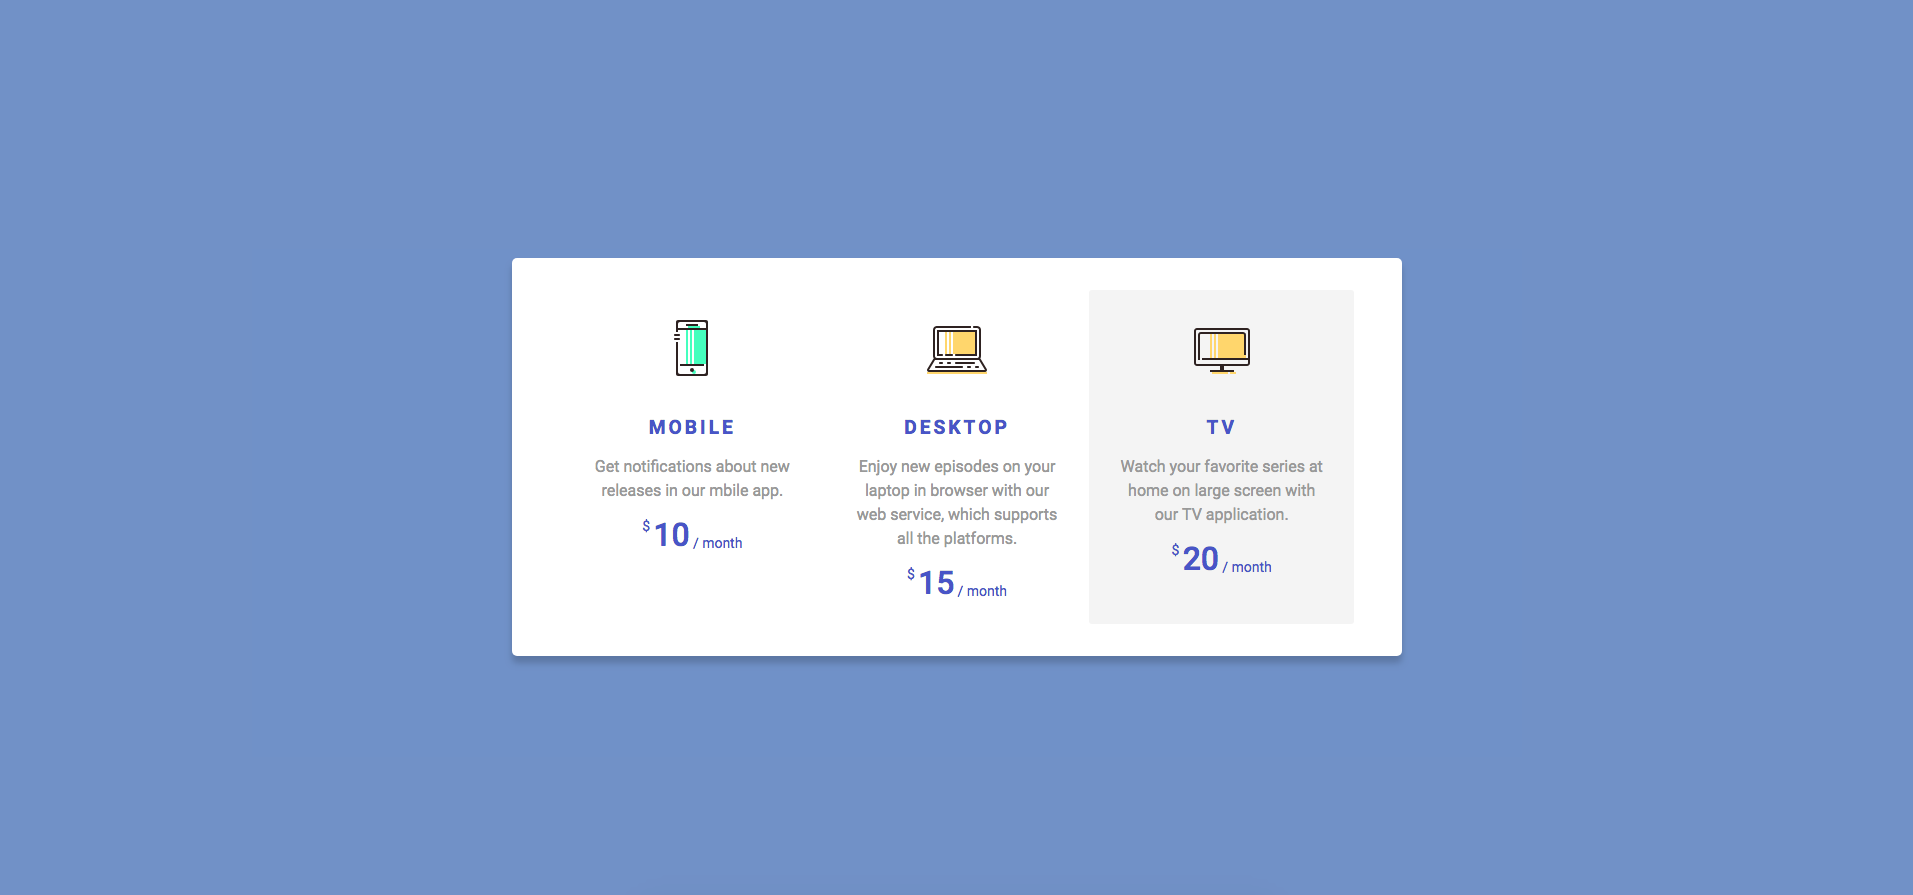
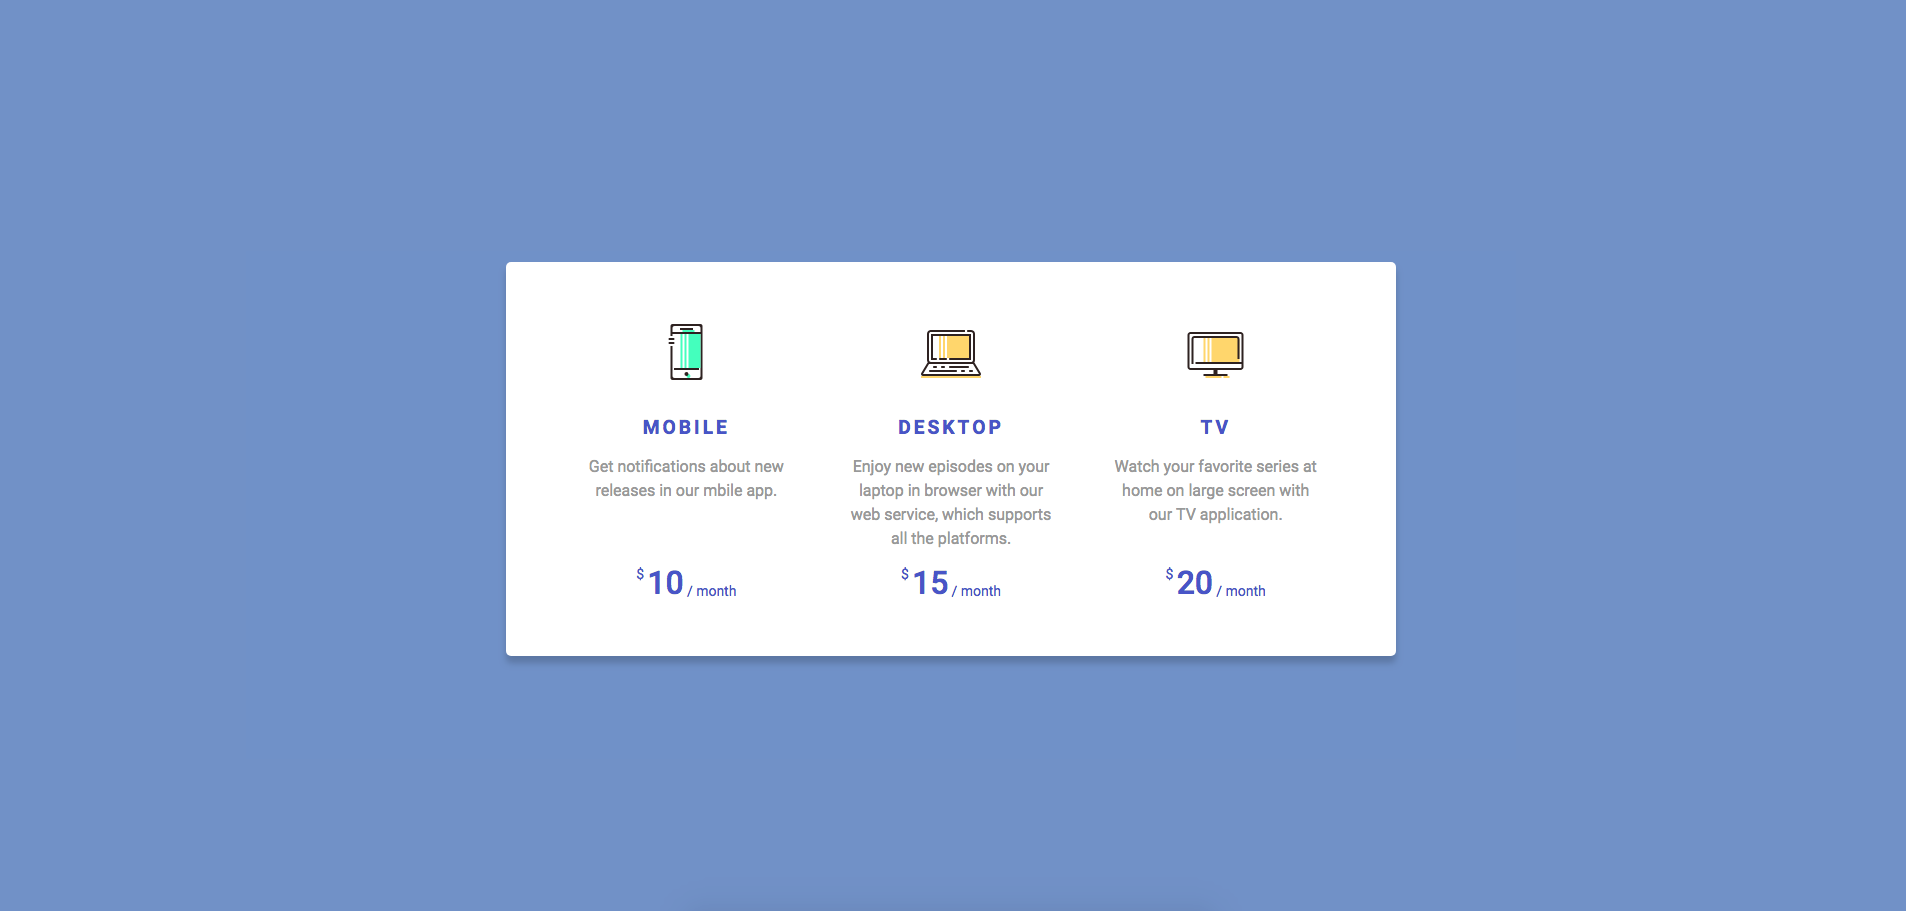
Align prices to the bottom. Update screenshot.

diff --git a/styles.css b/styles.css
@@ -33,7 +33,8 @@ h2, p {
     padding: 1.6rem;
     border-radius: 3px;
     text-decoration: none;
-    display: block;
+    display: flex;
+    flex-direction: column;
 }
 
 .item:hover {
@@ -64,6 +65,7 @@ h2, p {
     color: #4958cb;
     display: flex;
     justify-content: center;
+    margin-top: auto;
 }
 
 .currency {
